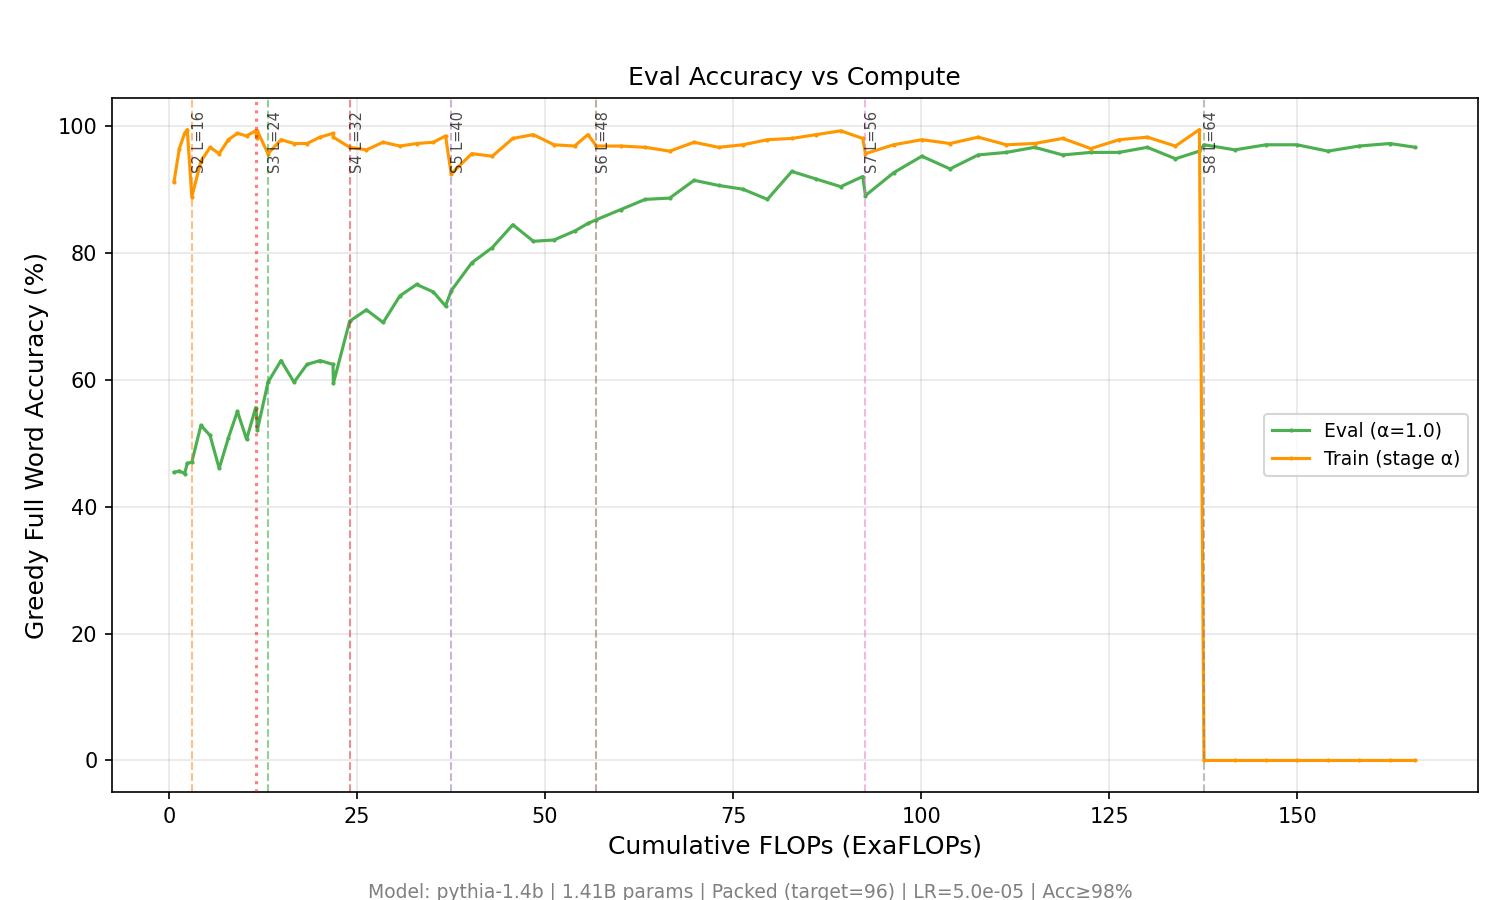
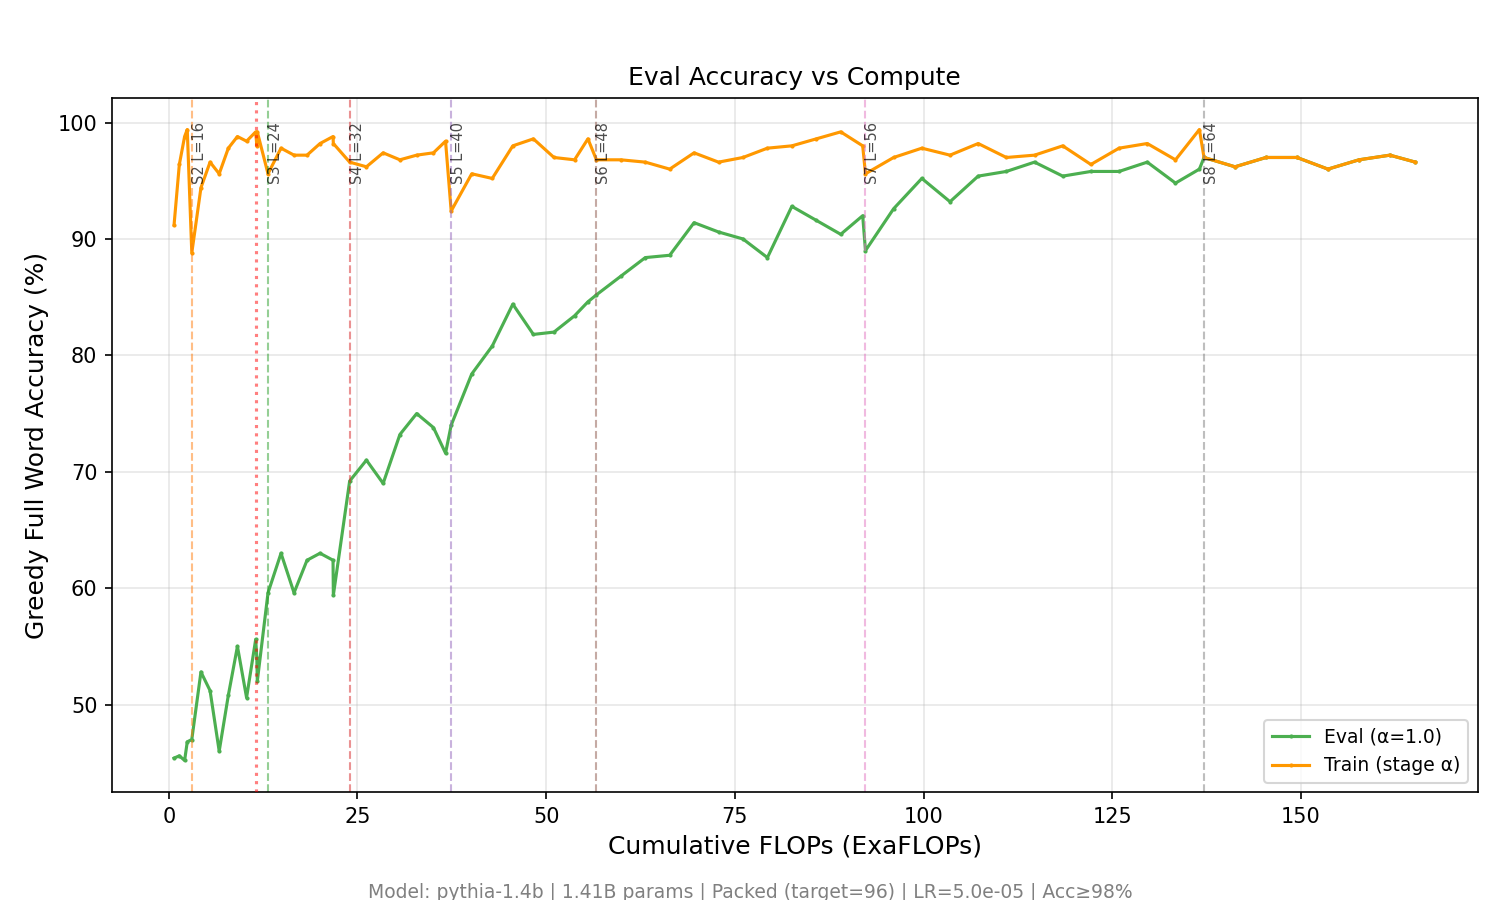
Update eval accuracy plots for stage-alpha fallback.
Handle stage-alpha evaluations that collapse to alpha=1.0 and sync the regenerated experiment figures, including the GPU-hours view, into the tracked local run results.

Made-with: Cursor

diff --git a/nl/plot_training.py b/nl/plot_training.py
@@ -162,6 +162,25 @@ def _draw_resume_markers(ax, loss_history: List[Dict], x_key: str = "step", x_va
             ax.axvline(x=x, color='red', linestyle=':', alpha=0.5, linewidth=1.5, zorder=5)
 
 
+def _stage_alpha_series(xs, stage_eval_history: List[Dict], full_alpha_tol: float = 1e-3):
+    """Return (xs, ys) for the stage-α greedy line.
+
+    The trainer skips the redundant stage-α evaluation when training α already
+    equals 1.0 (e.g. final stage). For those entries we fall back to ``greedy_full``
+    (identical by definition); entries that legitimately lack the data are dropped.
+    """
+    out_xs, out_ys = [], []
+    for x, h in zip(xs, stage_eval_history):
+        v = h.get("stage_greedy_full")
+        if v is None and abs(h.get("alpha_training", 0.0) - 1.0) <= full_alpha_tol:
+            v = h.get("greedy_full")
+        if v is None:
+            continue
+        out_xs.append(x)
+        out_ys.append(v * 100)
+    return out_xs, out_ys
+
+
 def _build_plot_subtitle(metadata: Dict) -> str:
     """Build a subtitle string from plot metadata."""
     parts = []
@@ -699,15 +718,17 @@ def plot_eval_acc_vs_step(stage_eval_history: List[Dict], output_dir: str, metad
     greedy_full = [h["greedy_full"] * 100 for h in stage_eval_history]
     greedy_first = [h["greedy_first"] * 100 for h in stage_eval_history]
 
-    has_stage_alpha = "stage_greedy_full" in stage_eval_history[0]
+    has_stage_alpha = any("stage_greedy_full" in h for h in stage_eval_history)
 
     fig, ax = plt.subplots(figsize=(10, 6))
 
     ax.plot(steps, greedy_full, '-', color='#4CAF50', label='Eval (\u03b1=1.0)', linewidth=1.5, markersize=2, marker='.')
 
     if has_stage_alpha:
-        stage_full = [h.get("stage_greedy_full", 0) * 100 for h in stage_eval_history]
-        ax.plot(steps, stage_full, '-', color='#FF9800', label='Train (stage \u03b1)', linewidth=1.5, markersize=2, marker='.')
+        # When stage-α eval is skipped (e.g. final stage where training α already == 1.0),
+        # fall back to greedy_full (identical by definition); otherwise drop the point.
+        stage_xs, stage_ys = _stage_alpha_series(steps, stage_eval_history)
+        ax.plot(stage_xs, stage_ys, '-', color='#FF9800', label='Train (stage \u03b1)', linewidth=1.5, markersize=2, marker='.')
 
     # Stage divider lines
     prev_stage = stage_eval_history[0]["stage"]
@@ -778,15 +799,15 @@ def plot_eval_acc_vs_flops(stage_eval_history: List[Dict], loss_history: List[Di
     eval_exaflops = [f / 1e18 for f in eval_flops]
 
     greedy_full = [h["greedy_full"] * 100 for h in stage_eval_history]
-    has_stage_alpha = "stage_greedy_full" in stage_eval_history[0]
+    has_stage_alpha = any("stage_greedy_full" in h for h in stage_eval_history)
 
     fig, ax = plt.subplots(figsize=(10, 6))
 
     ax.plot(eval_exaflops, greedy_full, '-', color='#4CAF50', label='Eval (\u03b1=1.0)', linewidth=1.5, markersize=2, marker='.')
 
     if has_stage_alpha:
-        stage_full = [h.get("stage_greedy_full", 0) * 100 for h in stage_eval_history]
-        ax.plot(eval_exaflops, stage_full, '-', color='#FF9800', label='Train (stage \u03b1)', linewidth=1.5, markersize=2, marker='.')
+        stage_xs, stage_ys = _stage_alpha_series(eval_exaflops, stage_eval_history)
+        ax.plot(stage_xs, stage_ys, '-', color='#FF9800', label='Train (stage \u03b1)', linewidth=1.5, markersize=2, marker='.')
 
     # Stage divider lines
     prev_stage = stage_eval_history[0]["stage"]
@@ -949,7 +970,7 @@ def plot_eval_acc_vs_gpu_hours(stage_eval_history: List[Dict], loss_history: Lis
                 eval_gpu_hours.append(0)
 
     greedy_full = [h["greedy_full"] * 100 for h in stage_eval_history]
-    has_stage_alpha = "stage_greedy_full" in stage_eval_history[0]
+    has_stage_alpha = any("stage_greedy_full" in h for h in stage_eval_history)
 
     fig, ax = plt.subplots(figsize=(10, 6))
 
@@ -958,8 +979,8 @@ def plot_eval_acc_vs_gpu_hours(stage_eval_history: List[Dict], loss_history: Lis
 
     # Training accuracy (stage alpha) — the metric that drives curriculum advancement
     if has_stage_alpha:
-        stage_full = [h.get("stage_greedy_full", 0) * 100 for h in stage_eval_history]
-        ax.plot(eval_gpu_hours, stage_full, '-', color='#FF9800', label='Train (stage \u03b1)', linewidth=1.5, markersize=2, marker='.')
+        stage_xs, stage_ys = _stage_alpha_series(eval_gpu_hours, stage_eval_history)
+        ax.plot(stage_xs, stage_ys, '-', color='#FF9800', label='Train (stage \u03b1)', linewidth=1.5, markersize=2, marker='.')
 
     # Draw vertical stage divider lines with labels
     n_stages_seen = max(h["stage"] for h in stage_eval_history)
